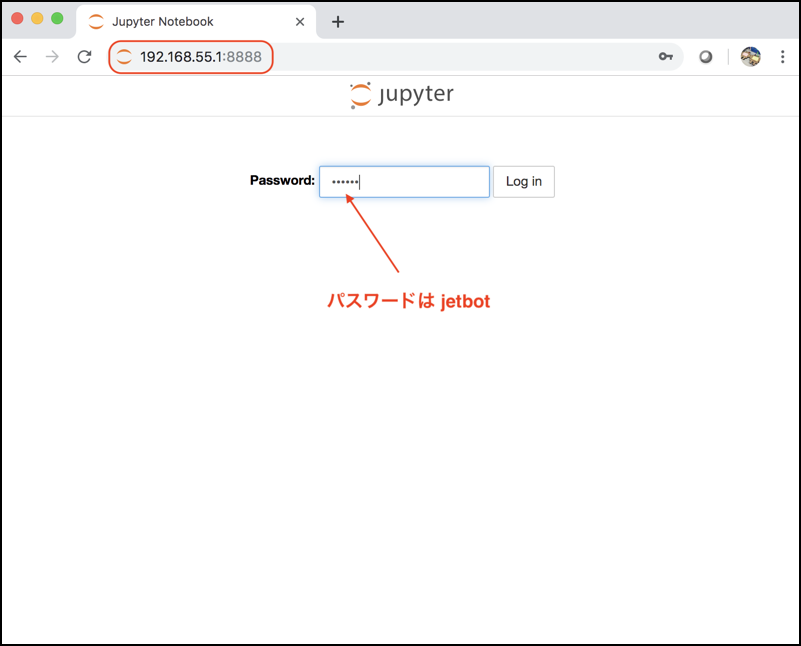
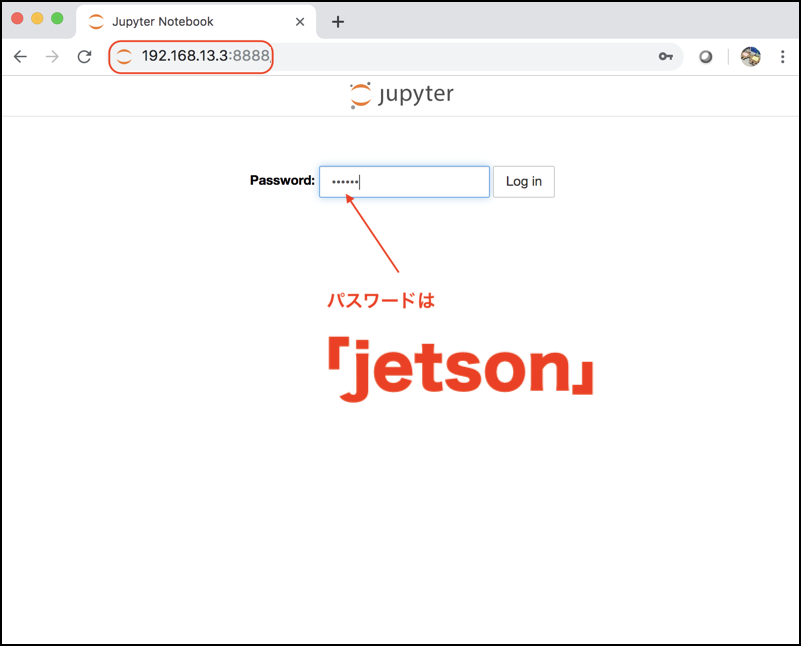
Deployed  with MkDocs version: 1.0.4

Changed region(s): [[0.4057, 0.4954, 0.7491, 0.6192], [0.1561, 0.0619, 0.3433, 0.0929], [0.5306, 0.4334, 0.6242, 0.4954]]

diff --git a/03.Jetracerへの接続/01.connect/index.html b/03.Jetracerへの接続/01.connect/index.html
@@ -848,6 +848,7 @@
 <p><img alt="" src="../img/wifi002.png" /></p>
 <h2 id="jetracerjupyter">JetracerのJupyterへの接続</h2>
 <p><code>192.168.13.2:8888</code> または、<code>192.168.13.3:8888</code> でJetracerに接続します。</p>
+<p><img alt="" src="../img/jupyter001.png" /></p>
                 
                   
                 
